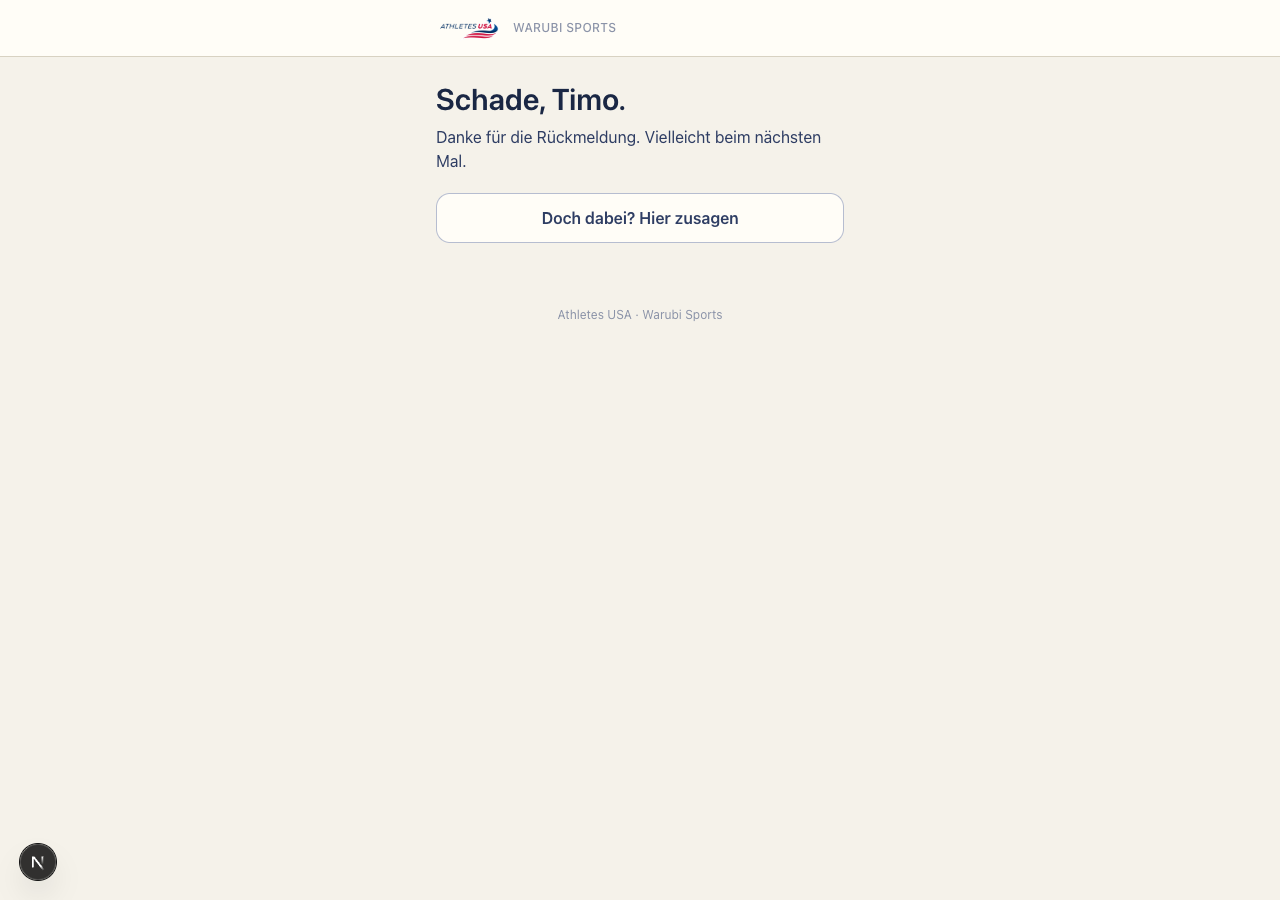
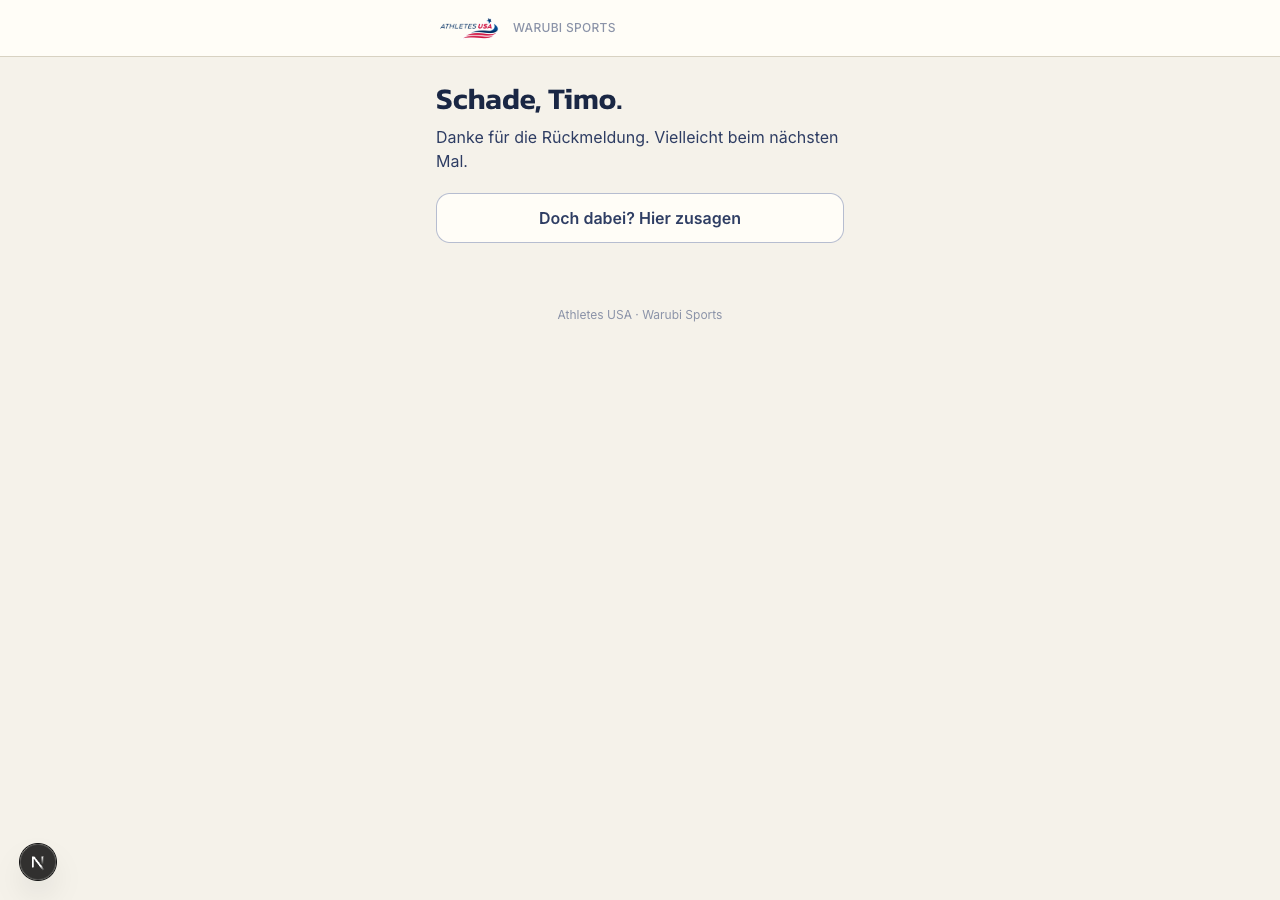
style(invite): font tokens inline so next/font resolves on the wrapper; buttons stay in Inter

Changed region(s): [[0.3438, 0.0933, 0.6562, 0.1867], [0.4062, 0.2178, 0.5938, 0.2489]]

diff --git a/src/components/invite/accept-form.tsx b/src/components/invite/accept-form.tsx
@@ -135,7 +135,7 @@ export const AcceptForm = ({ form, eventYear, isSubmitting, error, onChange, onS
       {error && <p className="rounded-xl bg-ausa-accent-soft px-4 py-3 text-sm text-ausa-accent-ink">{error}</p>}
 
       <div className="space-y-3">
-        <button type="submit" disabled={isSubmitting} className="w-full rounded-xl bg-ausa-accent py-4 font-ausa-display text-lg font-semibold text-white hover:bg-ausa-accent-hover disabled:opacity-50">
+        <button type="submit" disabled={isSubmitting} className="w-full rounded-xl bg-ausa-accent py-4 text-lg font-bold text-white hover:bg-ausa-accent-hover disabled:opacity-50">
           {isSubmitting ? <span className="flex items-center justify-center gap-2"><Loader2 className="h-5 w-5 animate-spin" />Wird gesendet...</span> : 'Zusage abschicken'}
         </button>
         <p className="text-center text-xs text-ausa-ink-400">{CONSENT_SUBMIT_NOTE}</p>

diff --git a/src/components/invite/signed-confirm.tsx b/src/components/invite/signed-confirm.tsx
@@ -69,7 +69,7 @@ export const SignedConfirm = ({ form, eventYear, isSubmitting, error, onChange, 
       {error && <p className="rounded-xl bg-ausa-accent-soft px-4 py-3 text-sm text-ausa-accent-ink">{error}</p>}
 
       <div className="space-y-3">
-        <button type="submit" disabled={isSubmitting} className="w-full rounded-xl bg-ausa-accent py-4 font-ausa-display text-lg font-semibold text-white hover:bg-ausa-accent-hover disabled:opacity-50">
+        <button type="submit" disabled={isSubmitting} className="w-full rounded-xl bg-ausa-accent py-4 text-lg font-bold text-white hover:bg-ausa-accent-hover disabled:opacity-50">
           {isSubmitting ? <span className="flex items-center justify-center gap-2"><Loader2 className="h-5 w-5 animate-spin" />Wird gesendet...</span> : 'Stimmt so'}
         </button>
         <p className="text-center text-xs text-ausa-ink-400">{CONSENT_SUBMIT_NOTE}</p>

diff --git a/src/components/invite/invite-landing.tsx b/src/components/invite/invite-landing.tsx
@@ -75,7 +75,7 @@ export const InviteLanding = ({ data, onAccept, onDecline }: InviteLandingProps)
         </div>
       ) : (
         <div className="space-y-3">
-          <button onClick={onAccept} className="w-full rounded-xl bg-ausa-accent py-4 font-ausa-display text-lg font-semibold text-white hover:bg-ausa-accent-hover active:scale-[0.98]">
+          <button onClick={onAccept} className="w-full rounded-xl bg-ausa-accent py-4 text-lg font-bold text-white hover:bg-ausa-accent-hover active:scale-[0.98]">
             Ich bin dabei
           </button>
           <button onClick={() => setConfirmDecline(true)} className="w-full rounded-xl border border-ausa-ink-300 bg-ausa-paper py-4 text-lg font-semibold text-ausa-ink-700">

diff --git a/src/app/globals.css b/src/app/globals.css
@@ -144,6 +144,11 @@
   --color-ausa-good: #2e7d4f;
   --color-ausa-good-soft: #eef6f0;
   --color-ausa-warn: #b45309;
+}
+
+/* Inline so the utilities carry the var() themselves: the next/font variables are set on the invite layout's
+   wrapper, not on :root, and a plain @theme value would be resolved (and fail) at :root. */
+@theme inline {
   --font-ausa-sans: var(--font-inter), 'Inter', -apple-system, BlinkMacSystemFont, system-ui, sans-serif;
   --font-ausa-display: var(--font-kanit), 'Kanit', 'Inter', system-ui, sans-serif;
   --font-ausa-mono: var(--font-plex-mono), 'IBM Plex Mono', ui-monospace, SFMono-Regular, Menlo, monospace;
